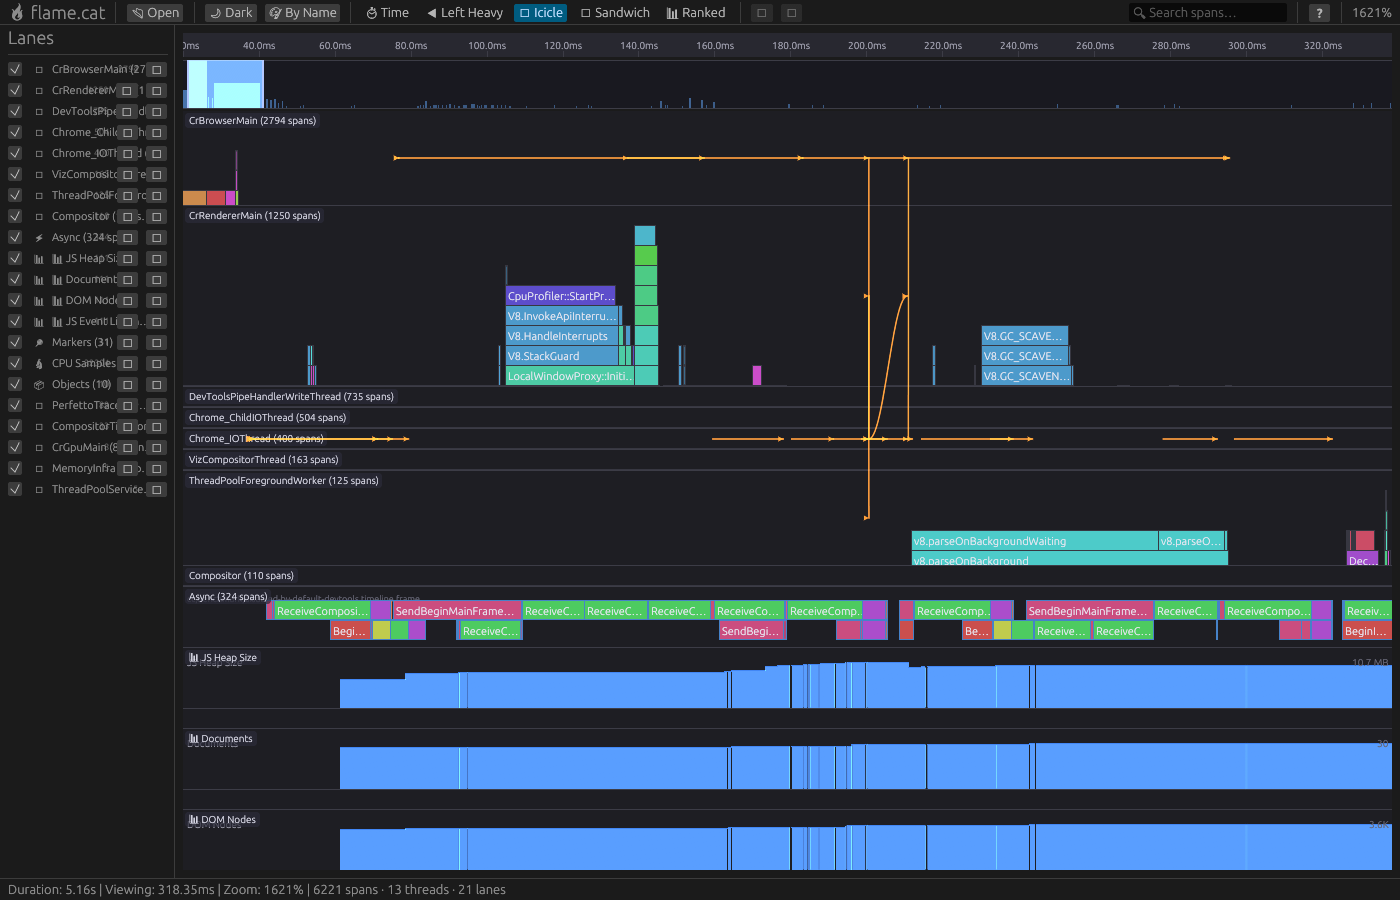
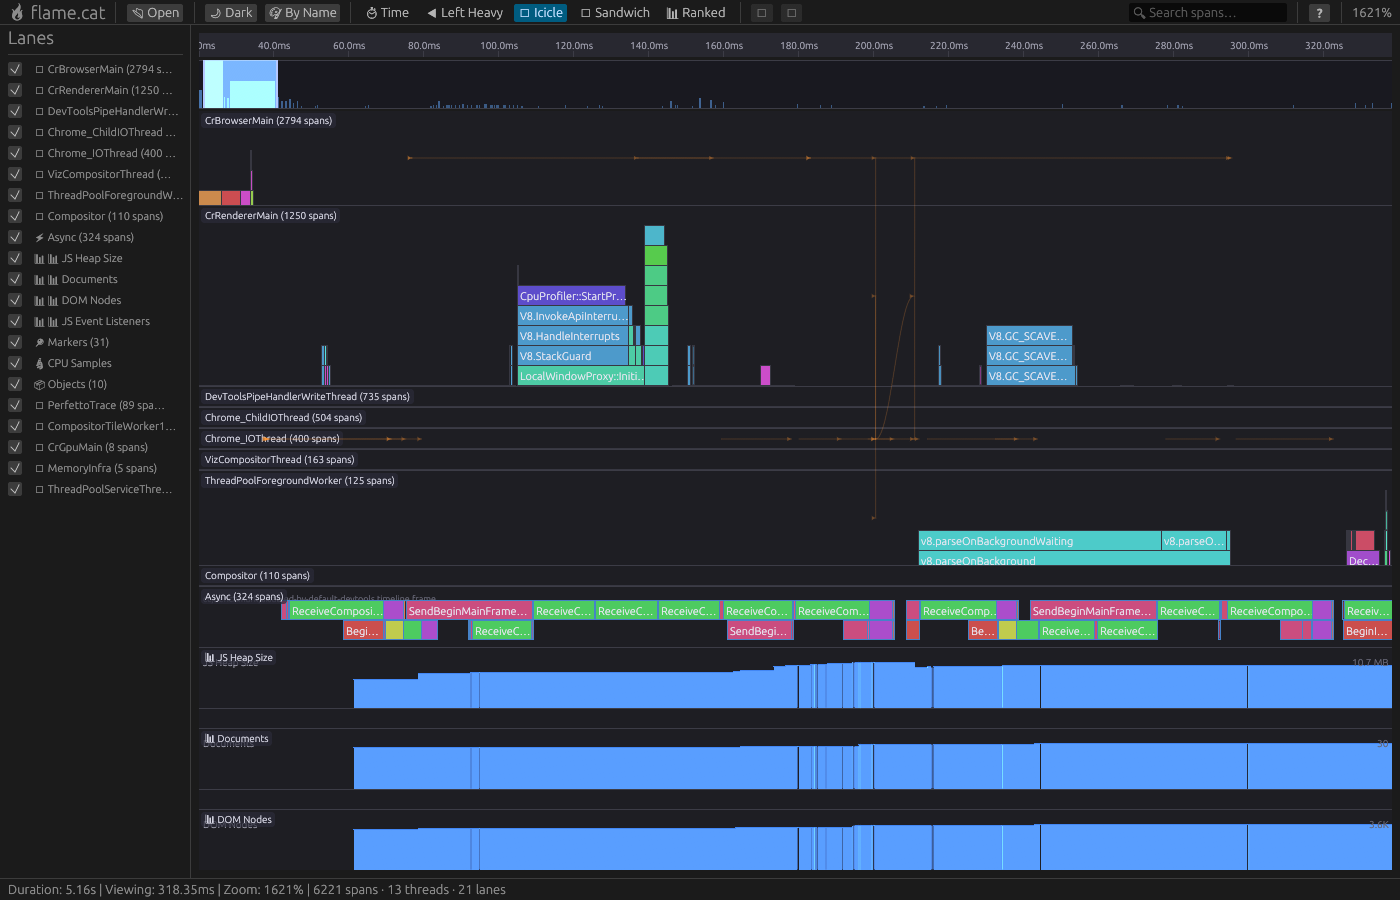
fix: visual polish — subtle flow arrows, cleaner sidebar
Flow arrows:
- Reduce opacity from 100% to ~20% (alpha 50/255)
- Reduce stroke width from 1.5px to 1.0px
- Reduce arrowhead size from 5px to 4px
- Cap at 50 arrows per frame to prevent visual clutter
- Arrowhead opacity at ~31% (alpha 80/255)

Sidebar:
- Remove ▴▾ reorder buttons (available via React hook reorder())
- Combine icon + name into single label for cleaner layout
- Widen default from 160px to 180px, min from 100px to 120px
- Dim hidden lane names with weak text color
- Longer truncation threshold (22 chars vs 18)

Screenshots:
- Retake all 6 screenshots with fixes applied

diff --git a/crates/ui/src/app.rs b/crates/ui/src/app.rs
@@ -1240,15 +1240,14 @@ impl FlameApp {
         // Sidebar: lane visibility toggles
         if self.session.is_some() {
             egui::SidePanel::left("lane_sidebar")
-                .default_width(160.0)
-                .min_width(100.0)
+                .default_width(180.0)
+                .min_width(120.0)
                 .resizable(true)
                 .show(ctx, |ui| {
                     ui.heading("Lanes");
                     ui.separator();
                     egui::ScrollArea::vertical().show(ui, |ui| {
                         let mut changed = false;
-                        let mut swap: Option<(usize, usize)> = None;
                         let lane_count = self.lanes.len();
                         for idx in 0..lane_count {
                             let lane = &self.lanes[idx];
@@ -1263,64 +1262,33 @@ impl FlameApp {
                                 LaneKind::ObjectTrack => "📦",
                             };
                             let full_name = lane.name.clone();
-                            let span_count = lane.span_count;
                             ui.horizontal(|ui| {
                                 if ui.checkbox(&mut vis, "").changed() {
                                     changed = true;
                                 }
-                                ui.label(egui::RichText::new(icon).size(10.0));
-                                let display_name = if full_name.chars().count() > 18 {
+                                let display_name = if full_name.chars().count() > 22 {
                                     let end = full_name
                                         .char_indices()
-                                        .nth(17)
+                                        .nth(21)
                                         .map_or(full_name.len(), |(i, _)| i);
-                                    format!("{}…", &full_name[..end])
+                                    format!("{icon} {}…", &full_name[..end])
                                 } else {
-                                    full_name.clone()
+                                    format!("{icon} {full_name}")
                                 };
-                                let label = ui.label(egui::RichText::new(&display_name).size(11.0));
-                                if display_name.len() < full_name.len() {
-                                    label.on_hover_text(&full_name);
-                                }
-                                ui.with_layout(
-                                    egui::Layout::right_to_left(egui::Align::Center),
-                                    |ui| {
-                                        if idx + 1 < lane_count {
-                                            if ui
-                                                .small_button("▾")
-                                                .on_hover_text("Move down")
-                                                .clicked()
-                                            {
-                                                swap = Some((idx, idx + 1));
-                                            }
-                                        }
-                                        if idx > 0 {
-                                            if ui
-                                                .small_button("▴")
-                                                .on_hover_text("Move up")
-                                                .clicked()
-                                            {
-                                                swap = Some((idx, idx - 1));
-                                            }
-                                        }
-                                        ui.label(
-                                            egui::RichText::new(format!("{span_count}"))
-                                                .size(9.0)
-                                                .weak(),
-                                        );
-                                    },
+                                let resp = ui.label(
+                                    egui::RichText::new(&display_name).size(11.0).color(if vis {
+                                        ui.visuals().text_color()
+                                    } else {
+                                        ui.visuals().weak_text_color()
+                                    }),
                                 );
+                                if display_name.len() < full_name.len() + icon.len() + 2 {
+                                    resp.on_hover_text(&full_name);
+                                }
                             });
                             if vis != lane.visible {
                                 self.lanes[idx].visible = vis;
                             }
-                        }
-                        if let Some((from, to)) = swap {
-                            self.lanes.swap(from, to);
-                            if self.lane_commands.len() == lane_count {
-                                self.lane_commands.swap(from, to);
-                            }
-                            changed = true;
                         }
                         if changed {
                             self.invalidate_commands();
@@ -1938,19 +1906,30 @@ impl FlameApp {
                     let session_start = session.start_time();
                     let session_duration = session.end_time() - session_start;
                     if session_duration > 0.0 && !profile.flow_arrows.is_empty() {
-                        let arrow_color = crate::theme::resolve(
-                            flame_cat_protocol::ThemeToken::FlowArrow,
-                            self.theme_mode,
-                        );
-                        let head_color = crate::theme::resolve(
-                            flame_cat_protocol::ThemeToken::FlowArrowHead,
-                            self.theme_mode,
-                        );
+                        let arrow_color = {
+                            let c = crate::theme::resolve(
+                                flame_cat_protocol::ThemeToken::FlowArrow,
+                                self.theme_mode,
+                            );
+                            egui::Color32::from_rgba_unmultiplied(c.r(), c.g(), c.b(), 50)
+                        };
+                        let head_color = {
+                            let c = crate::theme::resolve(
+                                flame_cat_protocol::ThemeToken::FlowArrowHead,
+                                self.theme_mode,
+                            );
+                            egui::Color32::from_rgba_unmultiplied(c.r(), c.g(), c.b(), 80)
+                        };
                         let view_span = self.view_end - self.view_start;
 
                         painter.set_clip_rect(available);
 
+                        let mut drawn = 0_usize;
+                        let max_arrows = 50;
                         for arrow in &profile.flow_arrows {
+                            if drawn >= max_arrows {
+                                break;
+                            }
                             let from_y = tid_to_y.get(&arrow.from_tid);
                             let to_y = tid_to_y.get(&arrow.to_tid);
                             let (Some(&from_y), Some(&to_y)) = (from_y, to_y) else {
@@ -1985,12 +1964,12 @@ impl FlameApp {
                                 [p1, p2, p3, p4],
                                 false,
                                 egui::Color32::TRANSPARENT,
-                                egui::Stroke::new(1.5, arrow_color),
+                                egui::Stroke::new(1.0, arrow_color),
                             );
                             painter.add(bezier);
 
                             // Small arrowhead triangle at destination
-                            let arrow_size = 5.0_f32;
+                            let arrow_size = 4.0_f32;
                             let dir = (p4 - p3).normalized();
                             let perp = egui::vec2(-dir.y, dir.x);
                             let tip = p4;
@@ -2001,6 +1980,7 @@ impl FlameApp {
                                 head_color,
                                 egui::Stroke::NONE,
                             ));
+                            drawn += 1;
                         }
                     }
                 }
